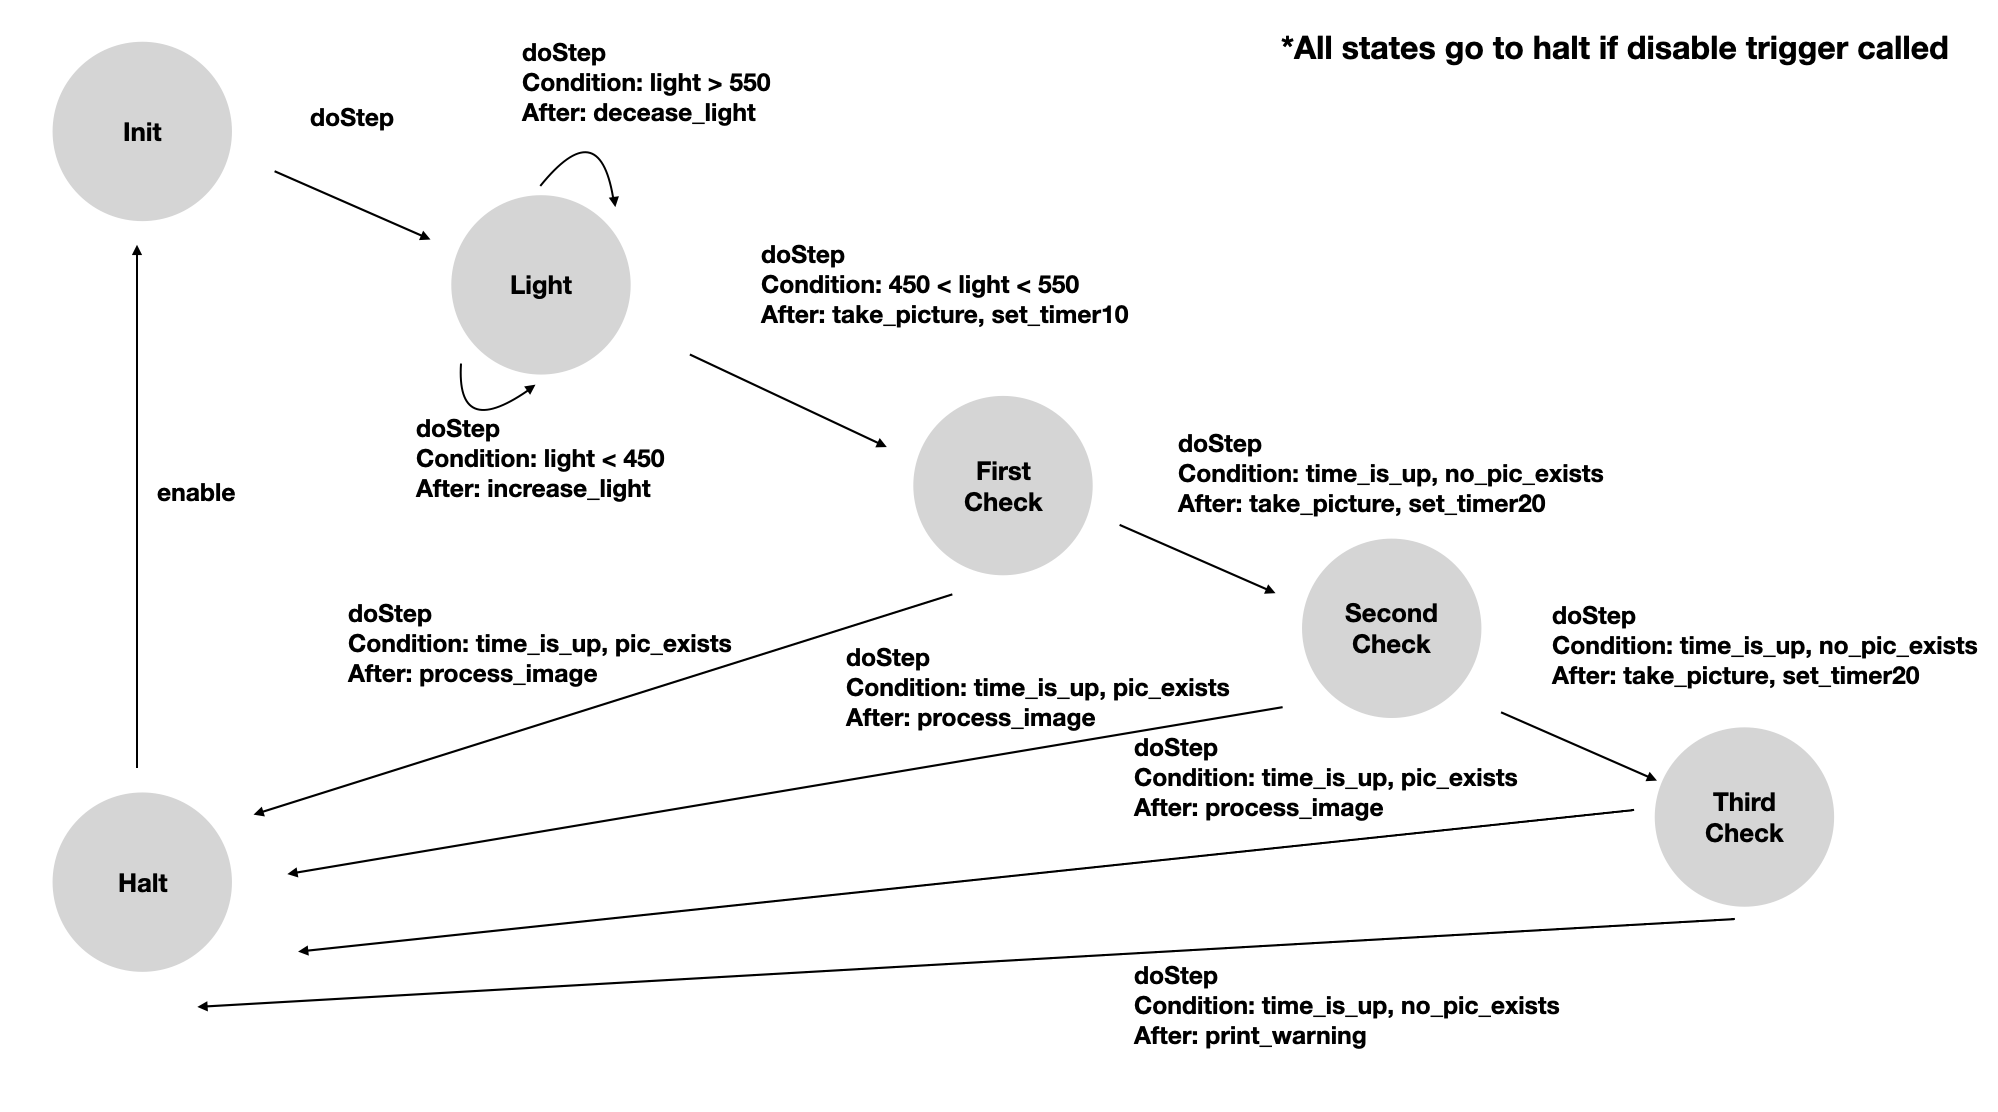
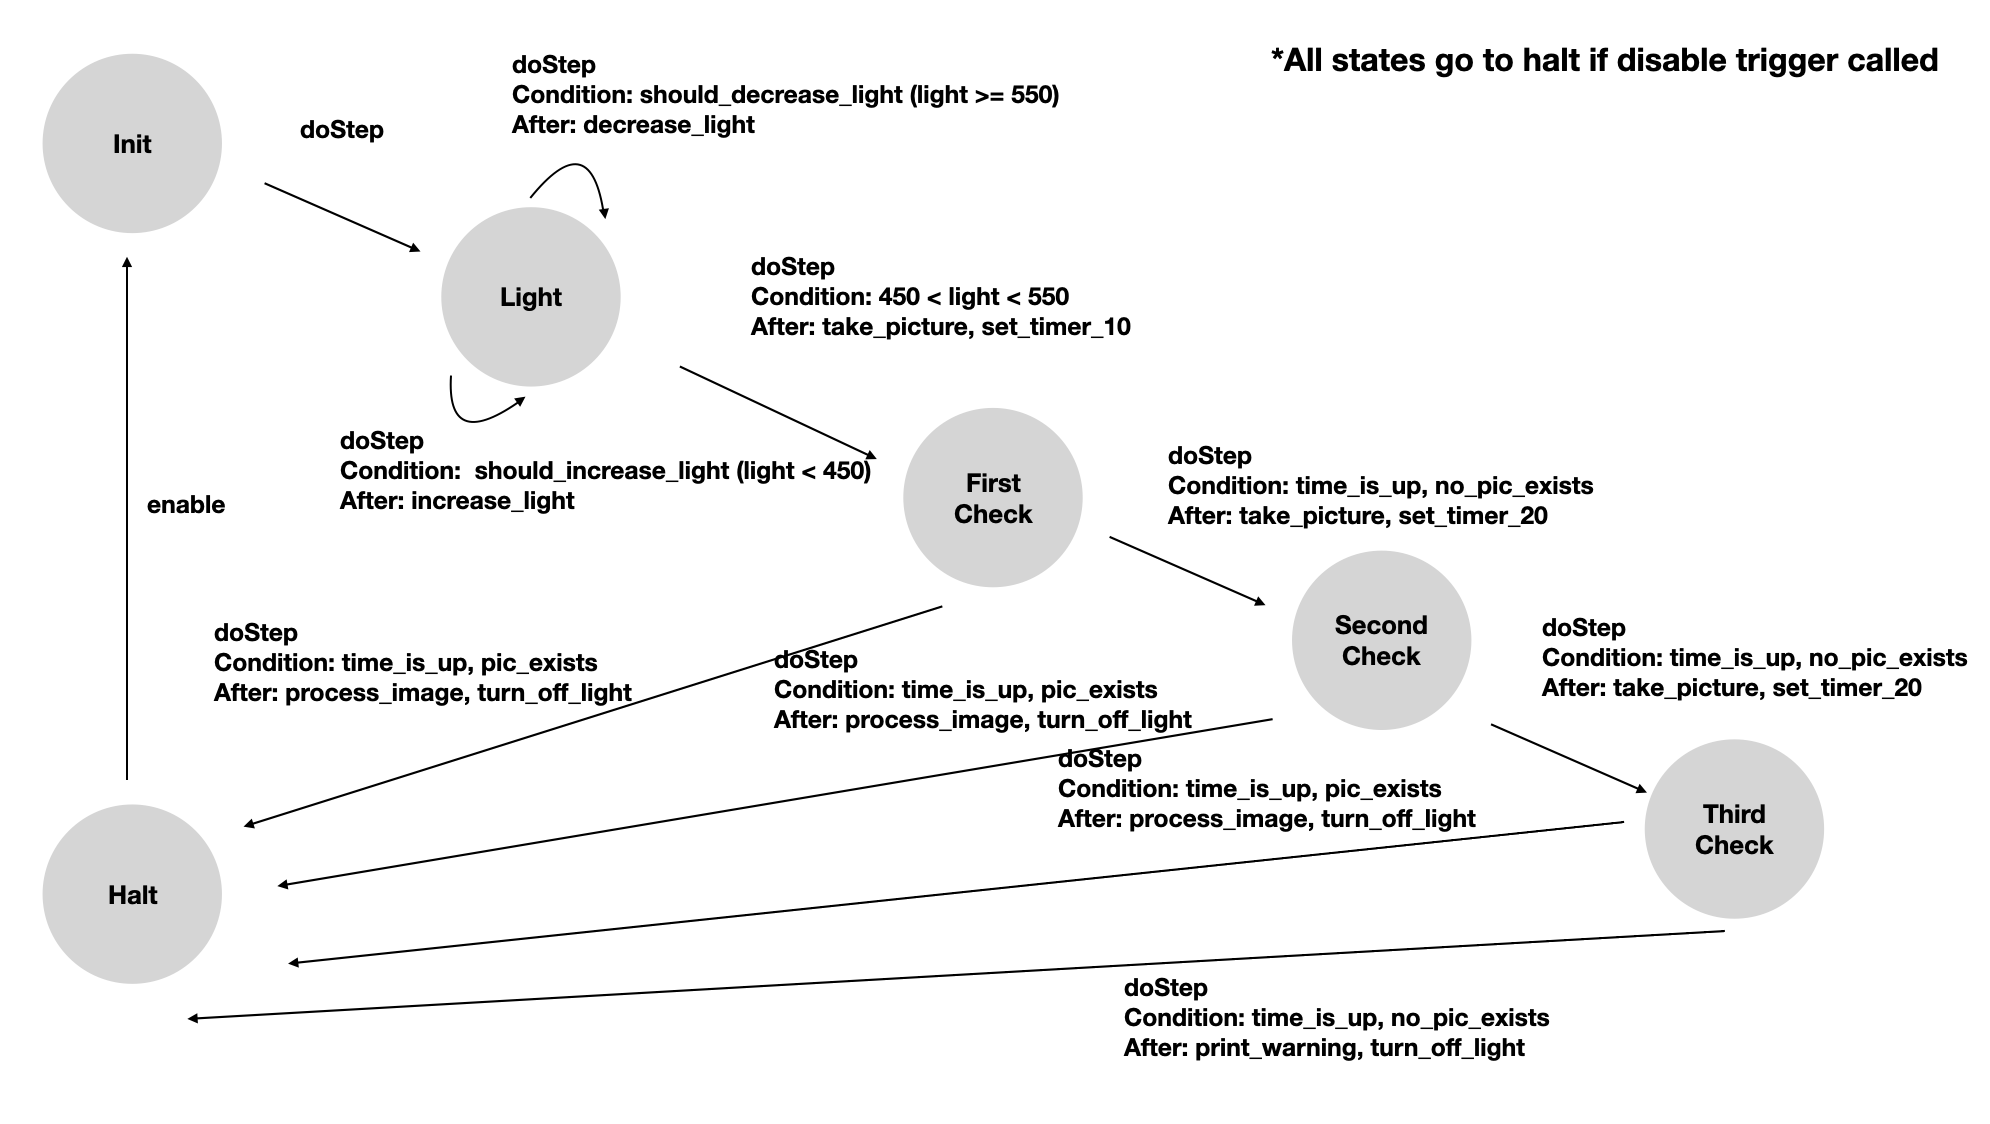
[CV_HW] Part 5: Adding transition functions to camera_behaviors.py

diff --git a/camera_behavior.py b/camera_behavior.py
@@ -35,6 +35,43 @@ class TakeImage(Behavior):
                            ignore_invalid_triggers=True)
         # END STUDENT CODE
 
+        ### TRANSITIONS ###
+        # TODO: Clarify whether we are to use an enable/disable, or just use doStep.
+        #  Even though starter file did not come with enable disable functions.
+        #  Layers.py seems to use Behavior.enable for all behaviors, so
+        #  current implementation assumes we are to use enable/disable,
+
+        self.fsm.add_transition(trigger='enable', source='halt', dest='init')
+
+        self.fsm.add_transition(trigger='doStep', source='init', dest='light')
+        self.fsm.add_transition(trigger='disable', source='*', dest='halt')
+
+        # Transitions from Light
+        self.fsm.add_transition(trigger='doStep', source='light', dest='firstcheck', conditions=[
+                                "light_perfect"], after=["take_picture", "set_timer_10"])
+        self.fsm.add_transition(trigger='doStep', source='light', dest='light', conditions=[
+                                "should_decrease_light"], after=["decrease_light"])
+        self.fsm.add_transition(trigger='doStep', source='light', dest='light', conditions=[
+                                "should_increase_light"], after=["increase_light"])
+
+        # Transitions from First Check
+        self.fsm.add_transition(trigger='doStep', source='firstcheck', dest='halt', conditions=[
+                                "time_is_up", "pic_exists"], after=["process_image", "turn_off_light"])
+        self.fsm.add_transition(trigger='doStep', source='firstcheck', dest='secondcheck', conditions=[
+                                "time_is_up", "no_pic_exists"], after=["take_picture", "set_timer_20"])
+
+        # Transitions from Second Check
+        self.fsm.add_transition(trigger='doStep', source='secondcheck', dest='halt', conditions=[
+                                "time_is_up", "pic_exists"], after=["process_image", "turn_off_light"])
+        self.fsm.add_transition(trigger='doStep', source='secondcheck', dest='thirdcheck', conditions=[
+                                "time_is_up", "no_pic_exists"], after=["take_picture", "set_timer_20"])
+
+        # Transitions from Third Check
+        self.fsm.add_transition(trigger='doStep', source='thirdcheck', dest='halt', conditions=[
+                                "time_is_up", "pic_exists"], after=["process_image", "turn_off_light"])
+        self.fsm.add_transition(trigger='doStep', source='thirdcheck', dest='halt', conditions=[
+                                "time_is_up", "no_pic_exists"], after=["print_warning", "turn_off_light"])
+
     # Add the condition and action functions
     #  Remember: if statements only in the condition functions;
     #            modify state information only in the action functions
@@ -68,6 +105,7 @@ class TakeImage(Behavior):
     def decrease_light(self):
         self.setLED(self.led-20)
 
+    # TODO: Should we turn off light when we halt, how does this affect other behaviors??
     def turn_off_light(self):
         self.setLED(0)
 
